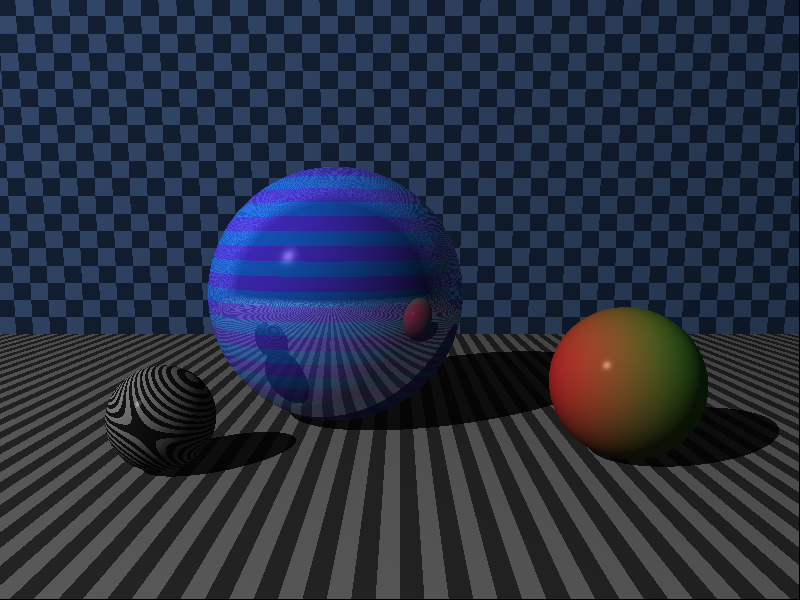
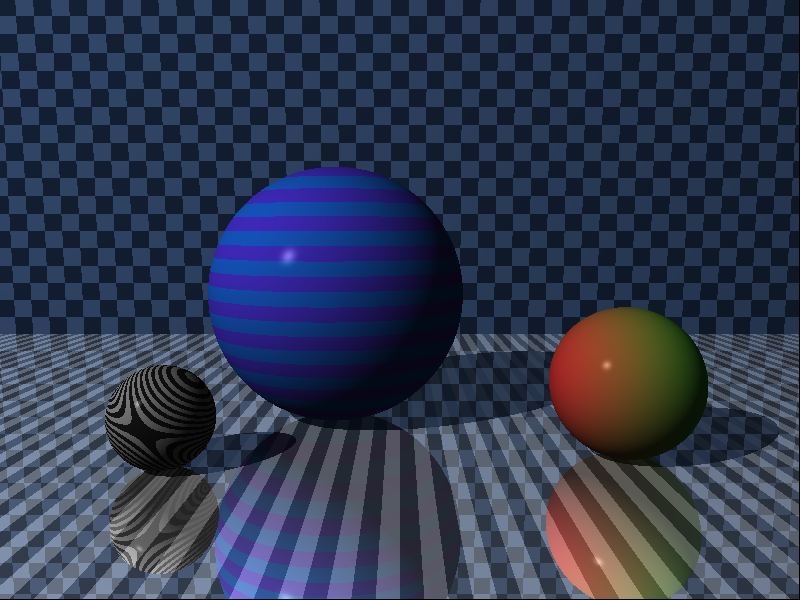
Code improvements, updated image.

diff --git a/KerrMath.cpp b/KerrMath.cpp
@@ -11,6 +11,7 @@ Computations KerrMath::prepareComputations(Intersection intersection, Ray ray, s
 	else { inside = false; }
 	Matrix reflectv = Matrix::reflect(ray.direction, normalv);
 	Matrix over_point = point + normalv * EPSILON;
+	Matrix under_point = point - normalv * EPSILON;
 	std::vector<Shape*> containers;
 	double n1 = -1.0;
 	double n2 = -1.0;
@@ -35,7 +36,7 @@ Computations KerrMath::prepareComputations(Intersection intersection, Ray ray, s
 			break;
 		}
 	}
-	return Computations(intersection.t, intersection.obj, point, over_point, eyev, normalv, reflectv, inside, n1, n2);
+	return Computations(intersection.t, intersection.obj, point, over_point, under_point, eyev, normalv, reflectv, inside, n1, n2);
 }
 
 Color KerrMath::lighting(const Material& material, Shape* object, const PointLight& light, const Matrix& point, const Matrix& eyev, const Matrix& normalv, const bool& in_shadow)
@@ -163,7 +164,8 @@ Color KerrMath::shadeHit(const World& world, const Computations& comps, const in
 {
 	Color surface = KerrMath::lighting(comps.obj->material, comps.obj, world.light, comps.over_point, comps.eyev, comps.normalv, KerrMath::isShadowed(world, comps.over_point));
 	Color reflected = KerrMath::reflectedColor(world, comps, remaining);
-	return surface + reflected;
+	Color refracted = KerrMath::refractedColor(world, comps, remaining);
+	return surface + reflected + refracted;
 }
 
 bool KerrMath::isShadowed(const World& world, const Matrix& point)
@@ -174,8 +176,7 @@ bool KerrMath::isShadowed(const World& world, const Matrix& point)
 	Ray r(point, direction);
 	std::vector<Intersection> xs = KerrMath::intersectWorld(world, r);
 	Intersection h = Intersection::hit(xs);
-	if (h.t == -999.0) { return false; }
-	if (h.t > 0.0 && h.t < distance) { return true; }
+	if (h.obj != nullptr && h.t < distance) { return true; }
 	return false;
 }
 
@@ -195,6 +196,20 @@ Color KerrMath::reflectedColor(const World& world, const Computations& comps, co
 	Ray reflect_ray(comps.over_point, comps.reflectv);
 	Color color = KerrMath::colorAt(world, reflect_ray, remaining - 1);
 	return color * comps.obj->material.reflective;
+}
+
+Color KerrMath::refractedColor(const World& world, const Computations& comps, const int& remaining)
+{
+	if (remaining == 0) { return Color(0.0, 0.0, 0.0); }
+	if (comps.obj->material.transparency == 0.0) { return Color(0.0, 0.0, 0.0); }
+	double n_ratio = comps.n1 / comps.n2;
+	double cos_i = Matrix::dot(comps.eyev, comps.normalv);
+	double sin2_t = std::pow(n_ratio, 2.0) * (1 - std::pow(cos_i, 2.0));
+	if (sin2_t > 1.0) { return Color(0.0, 0.0, 0.0); }
+	double cos_t = std::sqrt(1.0 - sin2_t);
+	Matrix direction = comps.normalv * (n_ratio * cos_i - cos_t) - comps.eyev * n_ratio;
+	Ray refract_ray(comps.under_point, direction);
+	return KerrMath::colorAt(world, refract_ray, remaining - 1) * comps.obj->material.transparency;
 }
 
 Color KerrMath::patternAt(const Pattern& pattern, const Matrix& point)

diff --git a/Computations.cpp b/Computations.cpp
@@ -6,12 +6,13 @@ Computations::Computations() { throw KerrEngineException("Default constructor fo
 
 Computations::~Computations() { }
 
-Computations::Computations(double t, Shape* obj, Matrix point, Matrix over_point, Matrix eyev, Matrix normalv, Matrix reflectv, bool inside, double n1, double n2)
+Computations::Computations(double t, Shape* obj, Matrix point, Matrix over_point, Matrix under_point, Matrix eyev, Matrix normalv, Matrix reflectv, bool inside, double n1, double n2)
 {
 	this->t = t;
 	this->obj = obj;
 	this->point = point;
 	this->over_point = over_point;
+	this->under_point = under_point;
 	this->eyev = eyev;
 	this->normalv = normalv;
 	this->reflectv = reflectv;
@@ -26,6 +27,7 @@ Computations::Computations(const Computations& orig)
 	this->obj = orig.obj;
 	this->point = orig.point;
 	this->over_point = orig.over_point;
+	this->under_point = orig.under_point;
 	this->eyev = orig.eyev;
 	this->normalv = orig.normalv;
 	this->reflectv = orig.reflectv;
@@ -38,6 +40,7 @@ Computations::Computations(Computations&& orig)
 	this->obj = orig.obj;
 	this->point = orig.point;
 	this->over_point = orig.over_point;
+	this->under_point = orig.under_point;
 	this->eyev = orig.eyev;
 	this->normalv = orig.normalv;
 	this->reflectv = orig.reflectv;
@@ -51,6 +54,7 @@ Computations& Computations::operator=(const Computations& rhs)
 	this->obj = rhs.obj;
 	this->point = rhs.point;
 	this->over_point = rhs.over_point;
+	this->under_point = rhs.under_point;
 	this->eyev = rhs.eyev;
 	this->normalv = rhs.normalv;
 	this->reflectv = rhs.reflectv;
@@ -65,6 +69,7 @@ Computations& Computations::operator=(Computations&& orig)
 	this->obj = orig.obj;
 	this->point = orig.point;
 	this->over_point = orig.over_point;
+	this->under_point = orig.under_point;
 	this->eyev = orig.eyev;
 	this->normalv = orig.normalv;
 	this->reflectv = orig.reflectv;

diff --git a/KerrTester.cpp b/KerrTester.cpp
@@ -18,14 +18,15 @@ using namespace std;
 
 int main()
 {
-	// Putting it together
 	string images_path = "C:\\KerrEngine_images\\";
 	ofstream fout(images_path + "image.ppm");
 
 	World world;
+	world.light = PointLight(Matrix::point(-10.0, 10.0, -10.0), Color(1.0, 1.0, 1.0));
 
 	Plane* floor = new Plane();
 	floor->material.specular = 0.0;
+	floor->material.reflective = 0.8;
 	floor->material.pattern = Pattern(Color(0.2, 0.2, 0.2), Color(0.5, 0.5, 0.5), "stripe", Matrix::scaling(0.1, 0.1, 0.1));
 
 	Plane* wall = new Plane();
@@ -35,22 +36,18 @@ int main()
 
 	Sphere* left = new Sphere();
 	left->transform = Matrix::translation(-1.5, 0.33, -0.75) * Matrix::scaling(0.33, 0.33, 0.33);
-	left->material.color = Color(0.8, 0.8, 0.8);
 	left->material.diffuse = 0.7;
 	left->material.specular = 0.3;
 	left->material.pattern = Pattern(Color(0.1, 0.1, 0.1), Color(0.6, 0.6, 0.6), "ring", Matrix::scaling(0.03, 0.04, 0.08) * Matrix::rotationZ(std::numbers::pi / 3));
 
 	Sphere* middle = new Sphere();
 	middle->transform = Matrix::translation(-0.5, 1.0, 0.5);
-	middle->material.color = Color(0.1, 0.5, 1.0);
 	middle->material.diffuse = 0.7;
 	middle->material.specular = 0.3;
-	middle->material.reflective = 0.5;
 	middle->material.pattern = Pattern(Color(0.1, 0.4, 0.9), Color(0.3, 0.2, 0.9), "stripe", Matrix::scaling(0.1, 0.1, 0.1) * Matrix::rotationZ(std::numbers::pi / 2));
 
 	Sphere* right = new Sphere();
 	right->transform = Matrix::translation(1.5, 0.5, -0.5) * Matrix::scaling(0.5, 0.5, 0.5);
-	right->material.color = Color(0.1, 1.0, 0.5);
 	right->material.diffuse = 0.7;
 	right->material.specular = 0.3;
 	right->material.pattern = Pattern(Color(0.9, 0.2, 0.2), Color(0.2, 0.9, 0.2), "gradient", Matrix::translation(1.0, 0.0, 0.0) * Matrix::scaling(2.0, 1.0, 1.0));

diff --git a/World.cpp b/World.cpp
@@ -2,26 +2,30 @@
 
 #include "World.h"
 
-World::World()
+World::World() { }
+
+World::~World() { }
+
+void World::clearWorld(World w)
 {
-	this->light = PointLight(Matrix::point(-10.0, 10.0, -10.0), Color(1.0, 1.0, 1.0));
-	/*
+	for (int i = 0; i < w.shapes.size(); i++)
+	{
+		delete w.shapes[i];
+	}
+	w.shapes.clear();
+}
+
+World World::defaultWorld()
+{
+	World w;
+	w.light = PointLight(Matrix::point(-10.0, 10.0, -10.0), Color(1.0, 1.0, 1.0));
 	Sphere* s1_ptr = new Sphere();
 	Sphere* s2_ptr = new Sphere();
 	s1_ptr->material.color = Color(0.8, 1.0, 0.6);
 	s1_ptr->material.diffuse = 0.7;
 	s1_ptr->material.specular = 0.2;
 	s2_ptr->transform = Matrix::scaling(0.5, 0.5, 0.5);
-	shapes.push_back(s1_ptr);
-	shapes.push_back(s2_ptr);
-	*/
-}
-
-World::~World()
-{
-	for (int i = 0; i < shapes.size(); i++)
-	{
-		delete shapes[0];
-		shapes.erase(shapes.begin());
-	}
+	w.shapes.push_back(s1_ptr);
+	w.shapes.push_back(s2_ptr);
+	return w;
 }

diff --git a/KerrMath.h b/KerrMath.h
@@ -15,6 +15,7 @@
 #include "Shape.h"
 #include "Sphere.h"
 #include "Pattern.h"
+#include "KerrEngine.h"
 #include "KerrEngineException.h"
 
 class KerrMath
@@ -34,6 +35,7 @@ class KerrMath
         static bool isShadowed(const World& world, const Matrix& point);
         static Color colorAt(const World& world, const Ray& ray, const int& remaining);
         static Color reflectedColor(const World& world, const Computations& comps, const int& remaining);
+        static Color refractedColor(const World& world, const Computations& comps, const int& remaining);
         static Color patternAt(const Pattern& pattern, const Matrix& point);
         static Color patternAtShape(const Pattern& pattern, Shape* object, const Matrix& world_point);
 };      

diff --git a/Computations.h b/Computations.h
@@ -13,6 +13,7 @@ class Computations
 		Shape* obj;
 		Matrix point;
 		Matrix over_point;
+		Matrix under_point;
 		Matrix eyev;
 		Matrix normalv;
 		Matrix reflectv;
@@ -23,7 +24,7 @@ class Computations
 		// constructors
 		Computations();
 		virtual ~Computations();
-		Computations(double t, Shape* obj, Matrix point, Matrix over_point, Matrix eyev, Matrix normalv, Matrix reflectv, bool inside, double n1, double n2);
+		Computations(double t, Shape* obj, Matrix point, Matrix over_point, Matrix under_point, Matrix eyev, Matrix normalv, Matrix reflectv, bool inside, double n1, double n2);
 		Computations(const Computations& orig); // copy constructor
 		Computations(Computations&& orig); // move constructor
 

diff --git a/KerrEngine.h b/KerrEngine.h
@@ -15,8 +15,7 @@
 #define PI std::numbers::pi
 #define THREE_PI_OVER_2 (3.0 * std::numbers::pi) / 2
 #define TWO_PI 2.0 * std::numbers::pi
-#define DEBUG 0
-#define DEBUG2 0
+#define DEBUG 1
 
 using namespace std;
 

diff --git a/World.h b/World.h
@@ -19,6 +19,10 @@ class World
 		// constructors
 		World();
 		virtual ~World();
+
+		// world functions
+		static void clearWorld(World w);
+		static World defaultWorld();
 };
 
 #endif;

diff --git a/Intersection.cpp b/Intersection.cpp
@@ -10,7 +10,7 @@ std::ostream& operator<<(std::ostream& out, const Intersection& i)
 
 Intersection::Intersection()
 {
-	this->t = -999.0;
+	this->t = 0.0;
 	this->obj = nullptr;
 }
 
